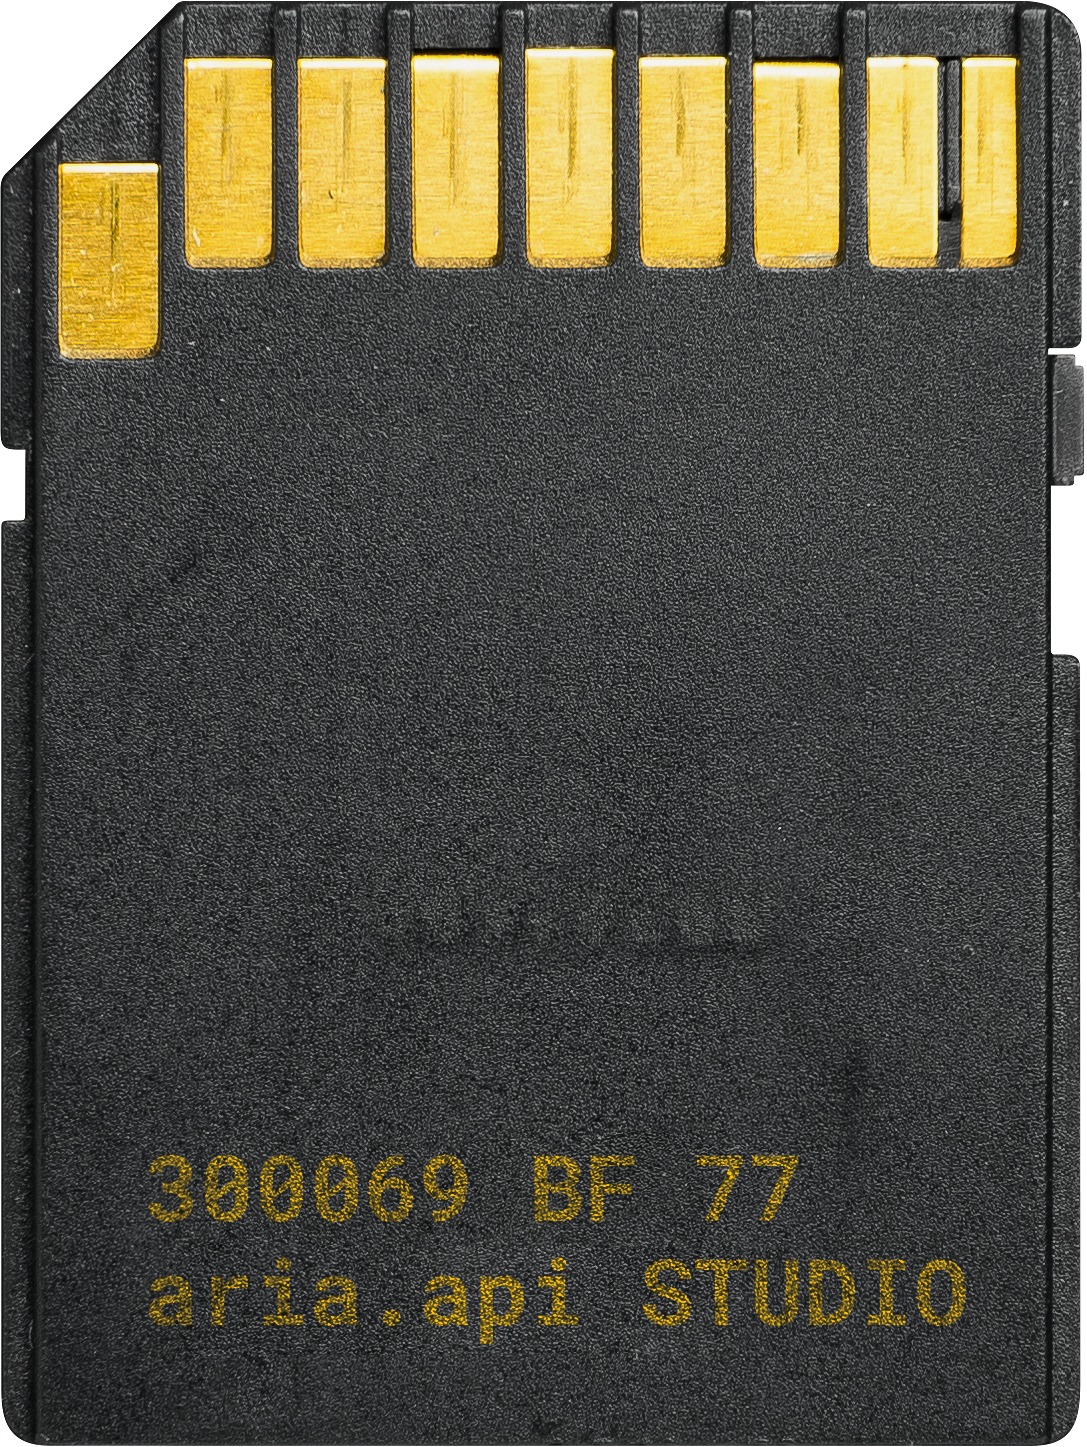
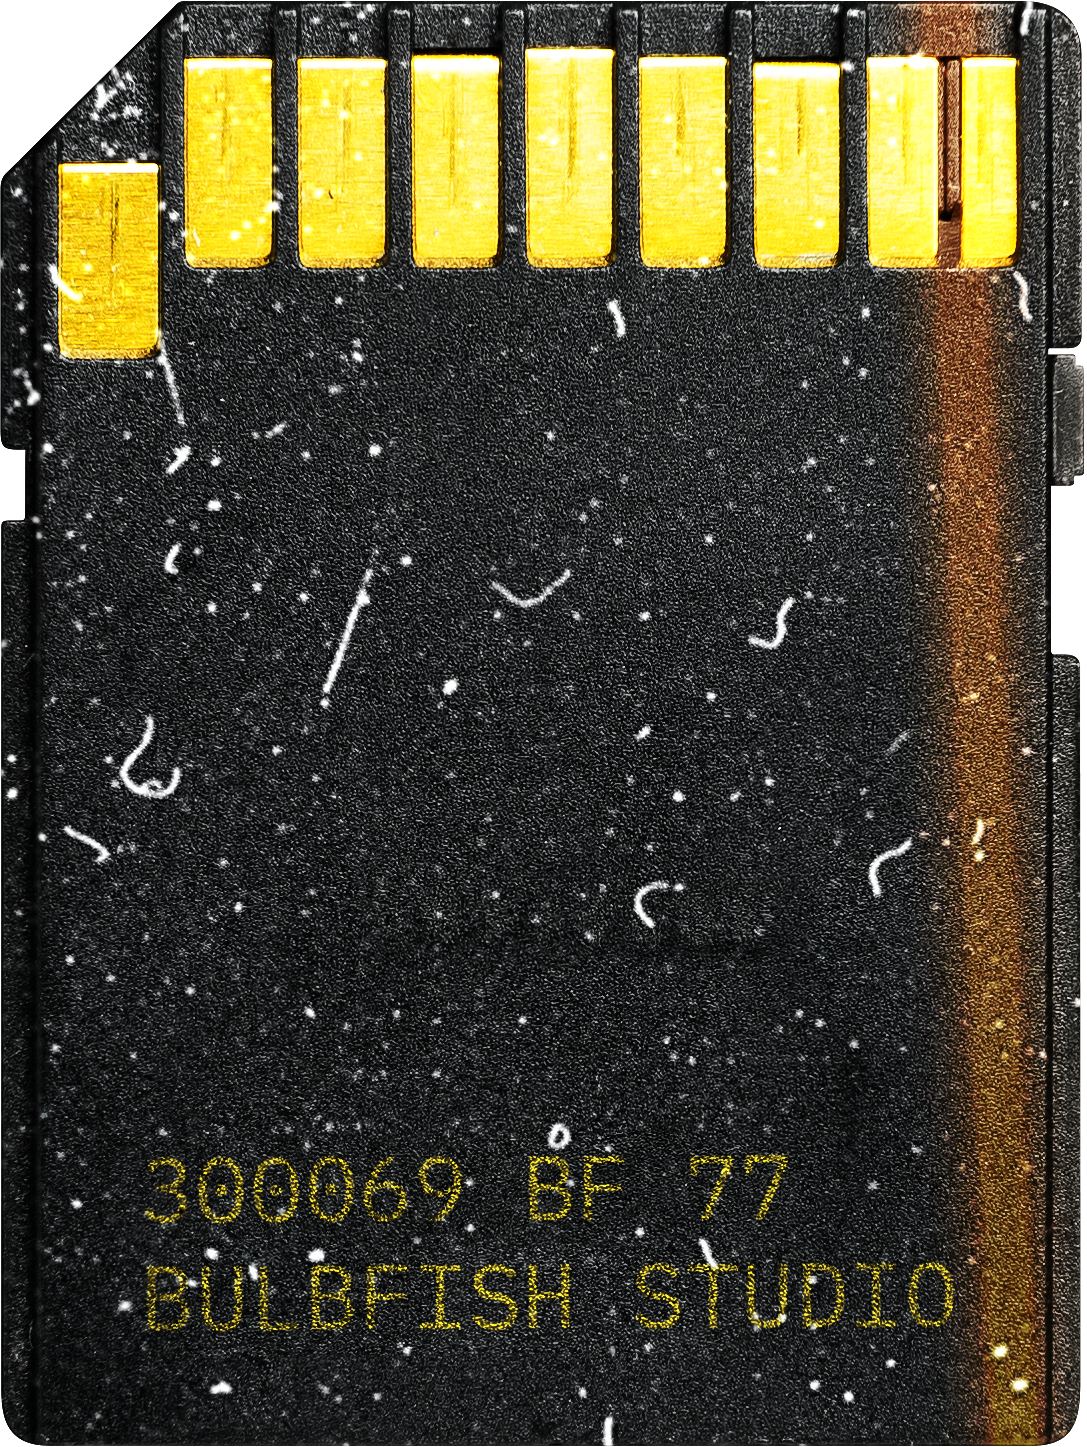
new update 5

diff --git a/main/html/Header.html b/main/html/Header.html
@@ -10,7 +10,8 @@
     <link rel="preconnect" href="https://fonts.googleapis.com">
     <link rel="preconnect" href="https://fonts.gstatic.com" crossorigin>
     <link href="https://fonts.googleapis.com/css2?family=Roboto+Mono&display=swap" rel="stylesheet">
-    <script type="text/javascript" src="https://res.cloudinary.com/veseylab/raw/upload/v1636192990/magicmouse/magic_mouse-1.2.1.cdn.min.js"></script>
+    <script type="text/javascript"
+            src="https://res.cloudinary.com/veseylab/raw/upload/v1636192990/magicmouse/magic_mouse-1.2.1.cdn.min.js"></script>
 </head>
 <body>
 
@@ -105,29 +106,21 @@
         missing something left behind.</span>
     </div>
     <div class="trace-container">
-        <div class="sdcard-container" data-tilt data-tilt-max="50" data-tilt-speed="400" data-tilt-perspective="500">>>
+        <div class="sdcard-container js-tilt" data-tilt>
             <!--<div class="overlay"></div>-->
+            <div class="sdcard-container2 js-tilt2" data-tilt>
+                <span class="tilt-logo-inner1">EXCLUSIVELY AT<br><span style="color: #FFC300"> &#47;&#47;</span>aria.api</span>
+                <span class="tilt-logo-inner2">LOCK <span>&#9650;</span></span>
+            </div>
             <img src="../assets/images/sd_top.png" class="sdcardtop">
+            <img src="../assets/images/overlay4.png" class="overlay4">
             <img src="../assets/images/overlay3.png" class="overlay3">
             <img src="../assets/images/overlay2.png" class="overlay2">
             <img src="../assets/images/overlay1.png" class="overlay1">
             <img src="../assets/images/cover.png" class="cover">
             <img src="../assets/images/sd_bot.png" class="sdcardbot">
         </div>
-    </div>
-    <div class="card text-center m-auto shadow-lg" style="width: 18rem;" data-tilt data-tilt-max="50" data-tilt-speed="400" data-tilt-perspective="500">
-        <img class="card-img-top" src="../assets/images/cover.png" alt="Card image cap">
-    </div>
-    <div>
-        <form action="">
-            <label for="fname" style="color: white">Artist name</label>
-            <input type="text" id="fname" name="firstname" placeholder="Your name..">
 
-            <label for="lname" style="color: white">Song title</label>
-            <input type="text" id="lname" name="lastname" placeholder="Your last name..">
-
-            <input type="submit" value="Submit">
-        </form>
     </div>
 </div>
 
@@ -156,8 +149,8 @@
                 &nbsp;&nbsp;&nbsp;&nbsp;<span>fname:</span> 'Svyatoslav',<br>
                 &nbsp;&nbsp;&nbsp;&nbsp;<span>lname:</span> 'Beletskiy',<br>
                 &nbsp;&nbsp;&nbsp;&nbsp;<a class="email tooltip" data-clipboard-text="svyatosb@metropolia.fi"
-                   href="mailto:svyatosb@metropolia.fi"
-                   data-title="Copy to clipboard">email:</a> 'svyatosb@metropolia.fi'<br>
+                                           href="mailto:svyatosb@metropolia.fi"
+                                           data-title="Copy to clipboard">email:</a> 'svyatosb@metropolia.fi'<br>
                 };
             </p>
         </div>
@@ -167,8 +160,8 @@
                 &nbsp;&nbsp;&nbsp;&nbsp;<span>fname:</span> 'Jonne',<br>
                 &nbsp;&nbsp;&nbsp;&nbsp;<span>lname:</span> 'Salli',<br>
                 &nbsp;&nbsp;&nbsp;&nbsp;<a class="email tooltip" data-clipboard-text="jonne.salli@metropolia.fi"
-                    href="mailto:jonne.salli@metropolia.fi"
-                    data-title="Copy to clipboard">email:</a> 'jonne.salli@metropolia.fi'<br>
+                                           href="mailto:jonne.salli@metropolia.fi"
+                                           data-title="Copy to clipboard">email:</a> 'jonne.salli@metropolia.fi'<br>
                 };
             </p>
         </div>
@@ -206,11 +199,25 @@
 
 <div id="bottom_fade"></div>
 
-<script type="text/javascript" src="vanilla-tilt.js"></script>
+<script src="tilt.js"></script>
 </body>
 
 <!--FRONT-END RELATED SCIRPTS-->
 <script>
+    $('.js-tilt').tilt({
+        maxTilt: 8,
+        scale: 1.1,
+        easing: "cubic-bezier(.03,.98,.52,.99)",
+        speed: 100,
+    });
+
+    $('.js-tilt2').tilt({
+        maxTilt: 12,
+        scale: 1.1,
+        easing: "cubic-bezier(.03,.98,.52,.99)",
+        speed: 300,
+    });
+
     const updateSelected = () => {
         $(".selected").text($("a[class*='active']").text()).fadeIn(700);
     }
@@ -358,10 +365,10 @@
 <script>
     const updateProperties = (elem, state) => {
 
-        elem.style.setProperty('--x', `${ state.x }px`)
-        elem.style.setProperty('--y', `${ state.y }px`)
-        elem.style.setProperty('--width', `${ state.width }px`)
-        elem.style.setProperty('--height', `${ state.height }px`)
+        elem.style.setProperty('--x', `${state.x}px`)
+        elem.style.setProperty('--y', `${state.y}px`)
+        elem.style.setProperty('--width', `${state.width}px`)
+        elem.style.setProperty('--height', `${state.height}px`)
         elem.style.setProperty('--radius', state.radius)
         elem.style.setProperty('--scale', state.scale)
 
@@ -384,7 +391,7 @@
             const computedState = {}
 
             if (onElement != null) {
-                const { top, left, width, height } = onElement.getBoundingClientRect()
+                const {top, left, width, height} = onElement.getBoundingClientRect()
                 const radius = window.getComputedStyle(onElement).borderTopLeftRadius
 
                 computedState.x = left + width / 2

diff --git a/main/styles/main_styles.css b/main/styles/main_styles.css
@@ -748,7 +748,7 @@ body::-webkit-scrollbar {
 }
 
 .infoBtn:hover {
-    color: #7b44ee;
+    color: #682AE9FF;
     text-decoration: underline #682AE9FF;
 }
 
@@ -836,59 +836,117 @@ li a {
 }
 
 .trace-container {
+    width: 100%;
+    height: 100%;
     border: 1px blue solid;
 }
 
 .sdcard-container {
     position: relative;
-    width: 15vw;
-    height: 40vh;
-    border: 1px red solid;
+    margin: 2rem;
+    float: right;
+    width: 17vw;
+    height: 45vh;
     display: block;
     text-align: center;
     align-items: center;
     justify-content: center;
+    box-shadow: 0 1.5rem 2rem rgba(0, 0, 0, 0.05);
+    transform-style: preserve-3d;
+    z-index: 1;
 }
 
-.overlay {
-    animation: grain 8s steps(10) infinite;
-    background-image: url("../assets/images/grainy.png");
-    content: "";
-    height: 300%;
-    left: -50%;
-    opacity: 0.3;
-    position: fixed;
-    top: -100%;
-    width: 300%;
+.sdcard-container2 {
+    position: relative;
+    float: right;
+    width: 100%;
+    height: 100%;
+    transform-style: preserve-3d;
+    z-index: 7;
+    content: '';
+    margin: 0;
 }
 
-@keyframes grain {
-    0%, 100% { transform:translate(0, 0) }
-    10% { transform:translate(-5%, -10%) }
-    20% { transform:translate(-15%, 5%) }
-    30% { transform:translate(7%, -25%) }
-    40% { transform:translate(-5%, 25%) }
-    50% { transform:translate(-15%, 10%) }
-    60% { transform:translate(15%, 0%) }
-    70% { transform:translate(0%, 15%) }
-    80% { transform:translate(3%, 35%) }
-    90% { transform:translate(-10%, 10%) }
+.tilt-logo-inner1 {
+    position: absolute;
+    top: 37%;
+    left: 39.5%;
+    text-align: right;
+    line-height: 1.1;
+    transform: translateZ(2rem);
+    color: white;
+    font-size: 1.6vh;
+    font-weight: 600;
+    letter-spacing: 0.05rem;
 }
 
-.sdcardtop, .overlay3 {
+.tilt-logo-inner2 {
+    position: absolute;
+    top: 36%;
+    left: 3.5%;
+    transform: translateZ(2rem) rotate(90deg);
+    color: white;
+    font-size: 1.6vh;
+    font-weight: 600;
+    letter-spacing: 0.05rem;
+}
+
+.tilt-logo-inner2 span:nth-child(1) {
+    display: inline-block;
+    transform: rotate(90deg);
+    color: #FFC300;
+}
+
+.sdcardtop {
     position: absolute;
     margin: auto;
     top: 0;
     bottom: 0;
     left: 0;
     right: 0;
-    width: 15vw;
+    width: 17vw;
+    height: auto;
+    z-index: 6;
+}
+
+.overlay4 {
+    position: absolute;
+    margin: auto;
+    top: 0;
+    bottom: 0;
+    left: 0;
+    right: 0;
+    width: 17vw;
     height: auto;
     z-index: 5;
 }
 
 .overlay3 {
+    position: absolute;
+    margin: auto;
+    top: 0;
+    bottom: 0;
+    left: 0;
+    right: 0;
+    width: 17vw;
+    height: auto;
+    z-index: 4;
+}
 
+.overlay1, .overlay2 {
+    position: absolute;
+    margin: auto;
+    top: 0;
+    bottom: 0;
+    left: 0;
+    right: 0;
+    width: 15.5vw;
+    height: auto;
+    z-index: 3;
+}
+
+.overlay2 {
+    mix-blend-mode: multiply;
 }
 
 .cover {
@@ -899,24 +957,8 @@ li a {
     left: 0;
     right: 0;
     z-index: 2;
-    width: 13vw;
+    width: 15vw;
     height: auto;
-}
-
-.overlay1, .overlay2 {
-    position: absolute;
-    margin: auto;
-    top: 0;
-    bottom: 0;
-    left: 0;
-    right: 0;
-    width: 14vw;
-    height: 31vh;
-    z-index: 3;
-}
-
-.overlay2 {
-    mix-blend-mode: multiply;
 }
 
 .sdcardbot {
@@ -926,7 +968,7 @@ li a {
     bottom: 0;
     left: 0;
     right: 0;
-    width: 15vw;
+    width: 17vw;
     height: auto;
     z-index: 1;
 }
